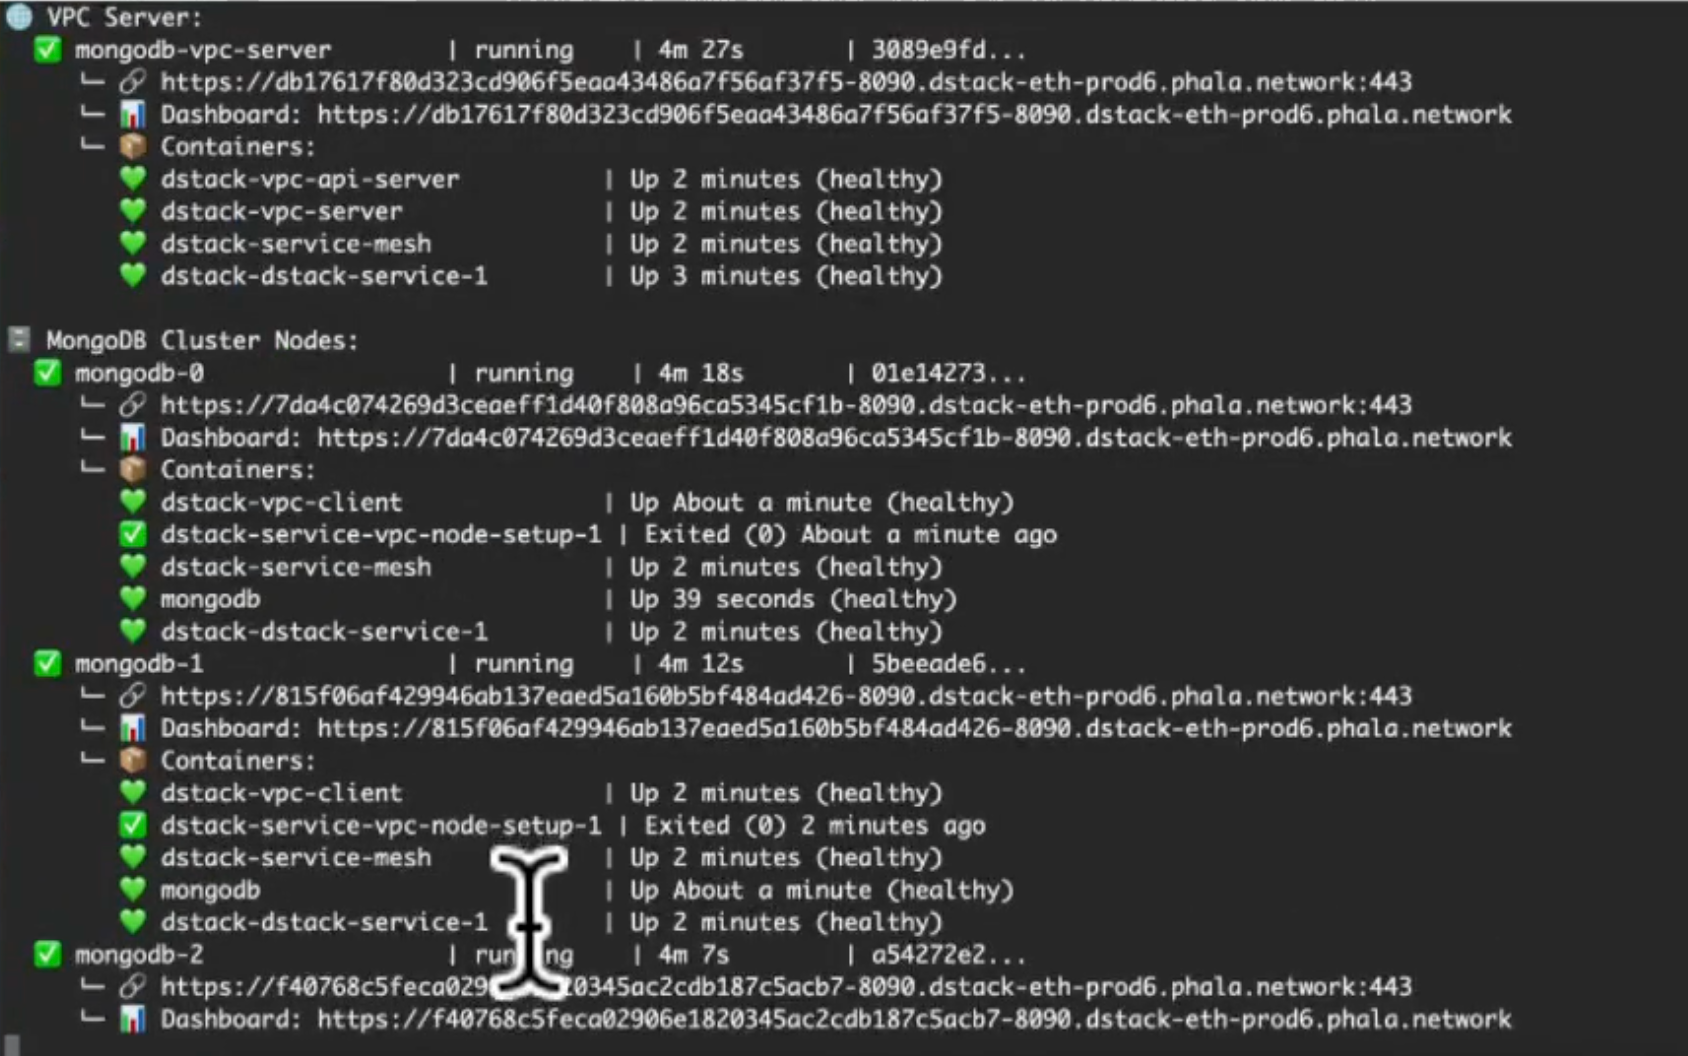
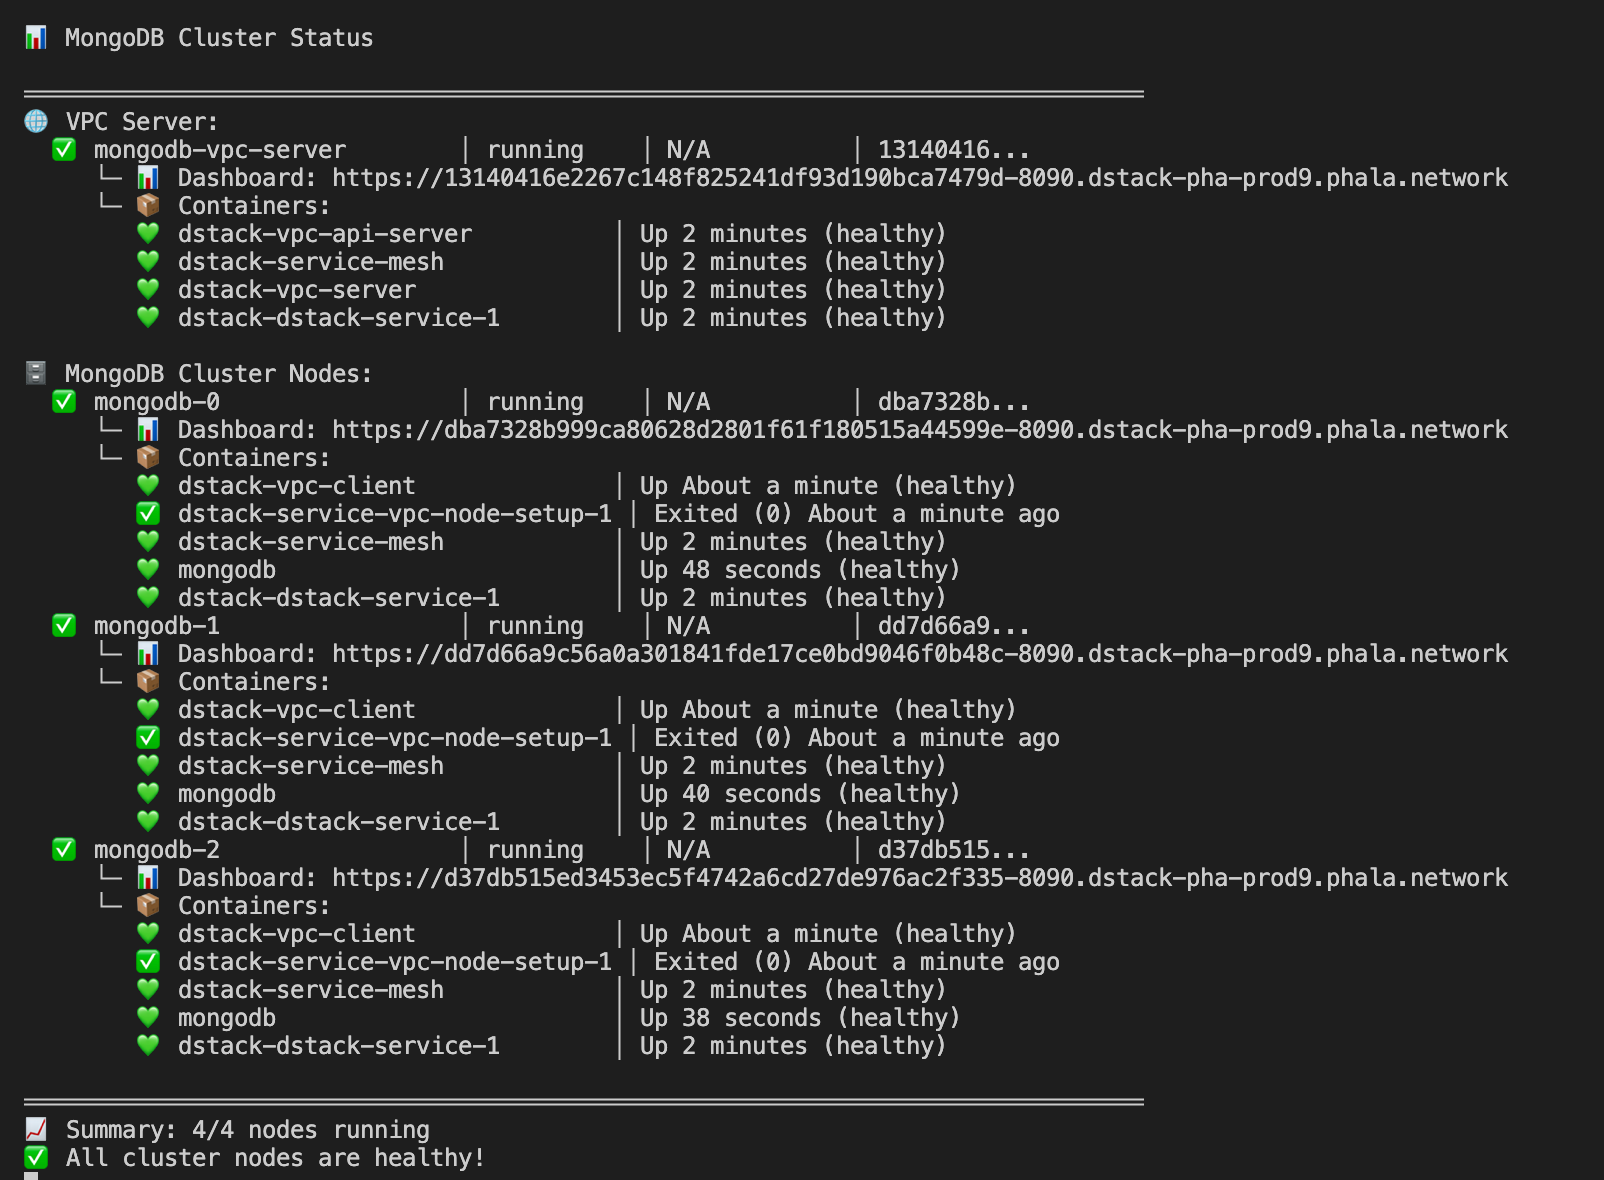
update images

Changed region(s): [[0.0, 0.2812, 0.9352, 1.0], [0.0, 0.0, 0.9352, 0.2812]]

diff --git a/examples/mongo-cluster/README.md b/examples/mongo-cluster/README.md
@@ -27,6 +27,8 @@ Spin up a MongoDB replica set inside a DStack VPC using the Phala Cloud CLI.
    node deploy.js cluster
    ```
 
+   It will generate a config file if it doesn't exist. You can optionally edit the config file or keep it as is, then run the command again.
+
 3. Watch cluster health until every node is ready:
 
    ```bash
@@ -40,8 +42,37 @@ Spin up a MongoDB replica set inside a DStack VPC using the Phala Cloud CLI.
    node deploy.js app
    ```
 
-5. Open <https://cloud.phala.network/dashboard> and check the application logs to confirm it can connect to the mongo cluster. You should see entries similar to:
+5. Watch the nodes status again, until the demo app is ready:
 
-    ![alt text](doc-assets/app-logs.png)
+   ```bash
+   node deploy.js status --watch
+   ```
+
+   ![alt text](doc-assets/app-status.png)
+
+5. Open the dashboard link and check the application logs to confirm it can connect to the mongo cluster. You should see entries similar to:
+
+   ![alt text](doc-assets/app-dashboard.png)
+
+   Logs:
+
+    ```
+      2025-10-30T10:34:38.533430185Z Waiting for keyfile...
+      2025-10-30T10:34:38.538363129Z Downloading keyfile...
+      2025-10-30T10:34:38.541317188Z Starting demo app...
+      2025-10-30T10:34:38.931292780Z Connecting to MongoDB cluster...
+      2025-10-30T10:34:39.032851272Z Connected to MongoDB cluster
+      2025-10-30T10:34:39.106136179Z Inserted document: new ObjectId('69033f3f26cdb527ae41a21e')
+      2025-10-30T10:34:39.114648425Z All documents: [
+      2025-10-30T10:34:39.114682349Z   {
+      2025-10-30T10:34:39.114691041Z     _id: new ObjectId('69033f3f26cdb527ae41a21e'),
+      2025-10-30T10:34:39.114698762Z     message: 'Hello from demo app!',
+      2025-10-30T10:34:39.114705443Z     timestamp: 2025-10-30T10:34:39.034Z,
+      2025-10-30T10:34:39.114723429Z     hostname: '660e31183cdc'
+      2025-10-30T10:34:39.114730492Z   }
+      2025-10-30T10:34:39.114736729Z ]
+      2025-10-30T10:35:09.143306297Z Periodic insert: new ObjectId('69033f5d26cdb527ae41a21f')
+      2025-10-30T10:35:39.132839598Z Periodic insert: new ObjectId('69033f7b26cdb527ae41a220')
+   ```
 
 
